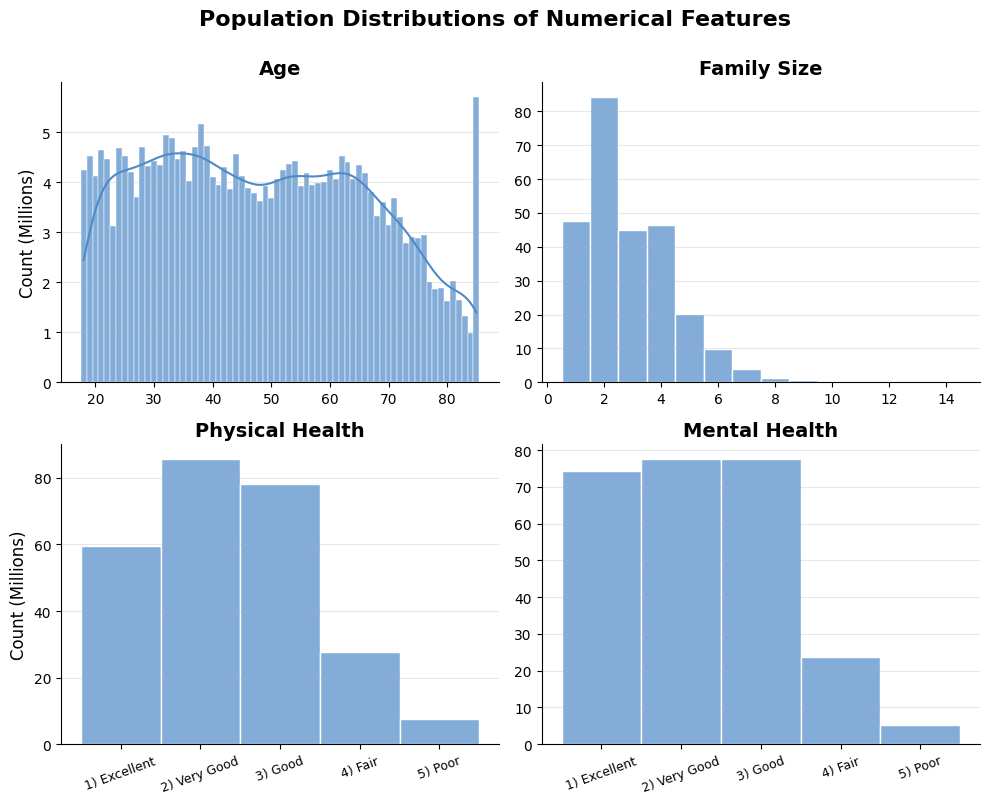
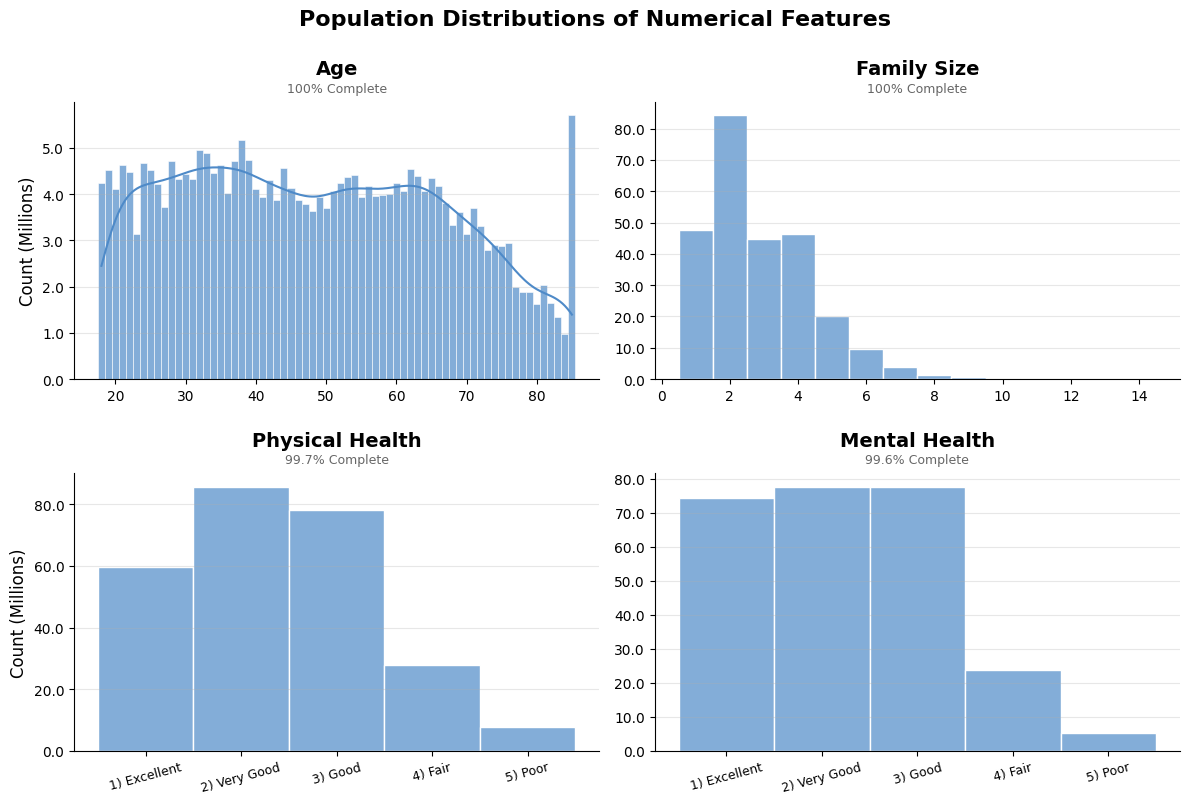
feat(eda): add helper function to plot numerical distributions for sample and population

diff --git a/notebooks/medical_cost_prediction.py b/notebooks/medical_cost_prediction.py
@@ -1026,109 +1026,84 @@ pop_stats_df.style.format({
 # </div>
 
 # %%
-# Sample Distributions (Unweighted)
-# Create 2x2 subplot grid
-fig, axes = plt.subplots(2, 2, figsize=(10, 8))
-
-# Flatten the axes for easier iteration
-axes = axes.flat
-
-# Iterate over all numerical features
-for i, feature in enumerate(numerical_features):
-    # Get the current axes
-    ax = axes[i]
-
-    # Create histogram for the current feature
-    sns.histplot(
-        data=df, 
-        x=feature, 
-        ax=ax,
-        discrete=True,                               # Centers bars on integers 
-        kde=True if feature == "AGE23X" else False,  # Adds a density curve for age
-        edgecolor="white",                           # Adds white border lines between bars
-        alpha=0.7
-    )
-
-    # Calculate completion rate
-    completion_rate = df[feature].count() / len(df) * 100
-    completion_label = "100% Complete" if completion_rate >= 99.95 else f"{completion_rate:.1f}% Complete"
-
-    # Customize histogram
-    ax.set_title(display_labels.get(feature, feature), fontsize=14, fontweight="bold", pad=20)
-    ax.annotate(completion_label, xy=(0.5, 1), xytext=(0, 5),
-                xycoords="axes fraction", textcoords="offset points",
-                ha="center", va="bottom", fontsize=9, color="#666666")
-    ax.set_xlabel("")
-    ax.set_ylabel("Count" if i % 2 == 0 else "", fontsize=12) # Only y-label on left plots
+# Helper Function: Plot the Distributions of Numerical Features
+def plot_numerical_distributions(df, numerical_features, display_labels=None, weights=None):
+    # Define subplot matrix grid
+    n_plots = len(numerical_features)
+    n_cols = 2
+    n_rows = math.ceil(n_plots / n_cols)
     
-    # Set x-axis tick labels for perceived health features
-    if feature in ["RTHLTH31", "MNHLTH31"]:
-        ax.set_xticks([1, 2, 3, 4, 5])
-        ax.set_xticklabels(["1) Excellent", "2) Very Good", "3) Good", "4) Fair", "5) Poor"], fontsize=9, rotation=20)
-        
-    ax.grid(True, axis="y", alpha=0.3)  # Adds grid lines
-    sns.despine(ax=ax)  # Removes top & right spines
-
-# Customize matrix
-fig.suptitle("Sample Distributions of Numerical Features", fontsize=16, fontweight="bold", y=1)  # Adds title
-fig.tight_layout()  # Adjusts layout to prevent overlap
-
-# Show histogram matrix
-plt.show()
-
-# %%
-# Population Distributions (Weighted)
-# Create 2x2 subplot grid
-fig, axes = plt.subplots(2, 2, figsize=(10, 8))
-
-# Flatten the axes for easier iteration
-axes = axes.flat
-
-# Iterate over all numerical features
-for i, feature in enumerate(numerical_features):
-    # Get the current axes
-    ax = axes[i]
-
-    # Create weighted histogram for the current feature
-    sns.histplot(
-        data=df, 
-        x=feature,
-        weights="PERWT23F",                          # Sample weights
-        ax=ax,
-        discrete=True,                               # Centers bars on integers 
-        kde=True if feature == "AGE23X" else False,  # Adds a density curve for age
-        edgecolor="white",                           # Adds white border lines between bars
-        alpha=0.7,
-        color="#4e8ac8"                              # Different color to distinguish from sample
-    )
-
-    # Calculate completion rate
-    completion_rate = df.loc[df[feature].notna(), "PERWT23F"].sum() / df["PERWT23F"].sum() * 100
-    completion_label = "100% Complete" if completion_rate >= 99.95 else f"{completion_rate:.1f}% Complete"
-
-    # Customize histogram
-    ax.set_title(display_labels.get(feature, feature), fontsize=14, fontweight="bold", pad=20)
-    ax.annotate(completion_label, xy=(0.5, 1), xytext=(0, 5),
-                xycoords="axes fraction", textcoords="offset points",
-                ha="center", va="bottom", fontsize=9, color="#666666")
-    ax.set_xlabel("")
-    ax.set_ylabel("Count (Millions)" if i % 2 == 0 else "", fontsize=12)     # Only y-label on left plots
+    # Create subplot matrix
+    fig, axes = plt.subplots(n_rows, n_cols, figsize=(n_cols * 6, n_rows * 4))
     
-    # Set x-axis tick labels for perceived health features
-    if feature in ["RTHLTH31", "MNHLTH31"]:
-        ax.set_xticks([1, 2, 3, 4, 5])
-        ax.set_xticklabels(["1) Excellent", "2) Very Good", "3) Good", "4) Fair", "5) Poor"], fontsize=9, rotation=20)
+    # Flatten axes for easier iteration
+    axes_flat = axes.flat
+    
+    # Iterate over all numerical features
+    for i, feature in enumerate(numerical_features):
+        # Get current axes
+        ax = axes_flat[i]
+    
+        # Population
+        if weights:  
+            # Create histogram (weighted)
+            sns.histplot(
+                data=df, x=feature, weights=weights, ax=ax, discrete=True,
+                kde=True if feature == "AGE23X" else False,
+                edgecolor="white", alpha=0.7, color="#4e8ac8"
+            )
+            # Calculate completion rate (weighted)
+            completion_rate = df.loc[df[feature].notna(), weights].sum() / df[weights].sum() * 100
+        # Sample
+        else:  
+            # Create histogram (unweighted)
+            sns.histplot(
+                data=df, x=feature, ax=ax, discrete=True,
+                kde=True if feature == "AGE23X" else False,
+                edgecolor="white", alpha=0.7
+            )
+            # Calculate completion rate (unweighted)
+            completion_rate = df[feature].count() / len(df) * 100
+    
+        # Customize current histogram
+        ax.set_title(display_labels.get(feature, feature), fontsize=14, fontweight="bold", pad=20)
+        completion_rate_label = "100% Complete" if completion_rate >= 99.95 else f"{completion_rate:.1f}% Complete"
+        ax.annotate(completion_rate_label, xy=(0.5, 1), xytext=(0, 5),
+                    xycoords="axes fraction", textcoords="offset points",
+                    ha="center", va="bottom", fontsize=9, color="#666666")
+        ax.set_xlabel("")
         
-    ax.yaxis.set_major_formatter(mtick.FuncFormatter(lambda x, pos: f"{x/1e6:.0f}"))  # Formats y-axis ticks in millions
-    ax.grid(True, axis="y", alpha=0.3)  # Adds grid lines
-    sns.despine(ax=ax)  # Removes top & right spines
+        # Format population counts in millions
+        if weights:  
+            ax.set_ylabel("Count (Millions)" if i % n_cols == 0 else "", fontsize=12)
+            ax.yaxis.set_major_formatter(mtick.FuncFormatter(lambda x, pos: f"{x/1e6:.1f}"))
+        else:
+            ax.set_ylabel("Count" if i % n_cols == 0 else "", fontsize=12)
+            
+        # Customize ticks for perceived health features
+        if feature in ["RTHLTH31", "MNHLTH31"]:
+            ax.set_xticks([1, 2, 3, 4, 5])
+            ax.set_xticklabels(["1) Excellent", "2) Very Good", "3) Good", "4) Fair", "5) Poor"], fontsize=9, rotation=15)
+            
+        ax.grid(True, axis="y", alpha=0.3)
+        sns.despine(ax=ax)
 
-# Customize matrix
-fig.suptitle("Population Distributions of Numerical Features", fontsize=16, fontweight="bold", y=1)  # Adds title
-fig.tight_layout()  # Adjusts layout to prevent overlap
+    # Hide unused subplots
+    for j in range(i + 1, len(axes_flat)):
+        axes_flat[j].axis("off")  
 
-# Show histogram matrix
-plt.show()
+    # Customize histogram matrix
+    fig.suptitle(f"{'Population' if weights else 'Sample'} Distributions of Numerical Features", 
+                 fontsize=16, fontweight="bold", y=1)
+    fig.tight_layout(h_pad=2.0)
+    plt.show()
+
+
+# Plot sample distributions (unweighted) of numerical features
+plot_numerical_distributions(df, numerical_features, display_labels)
+
+# Plot population distributions (weighted) of numerical features
+plot_numerical_distributions(df, numerical_features, display_labels, weights="PERWT23F")
 
 
 # %% [markdown]
